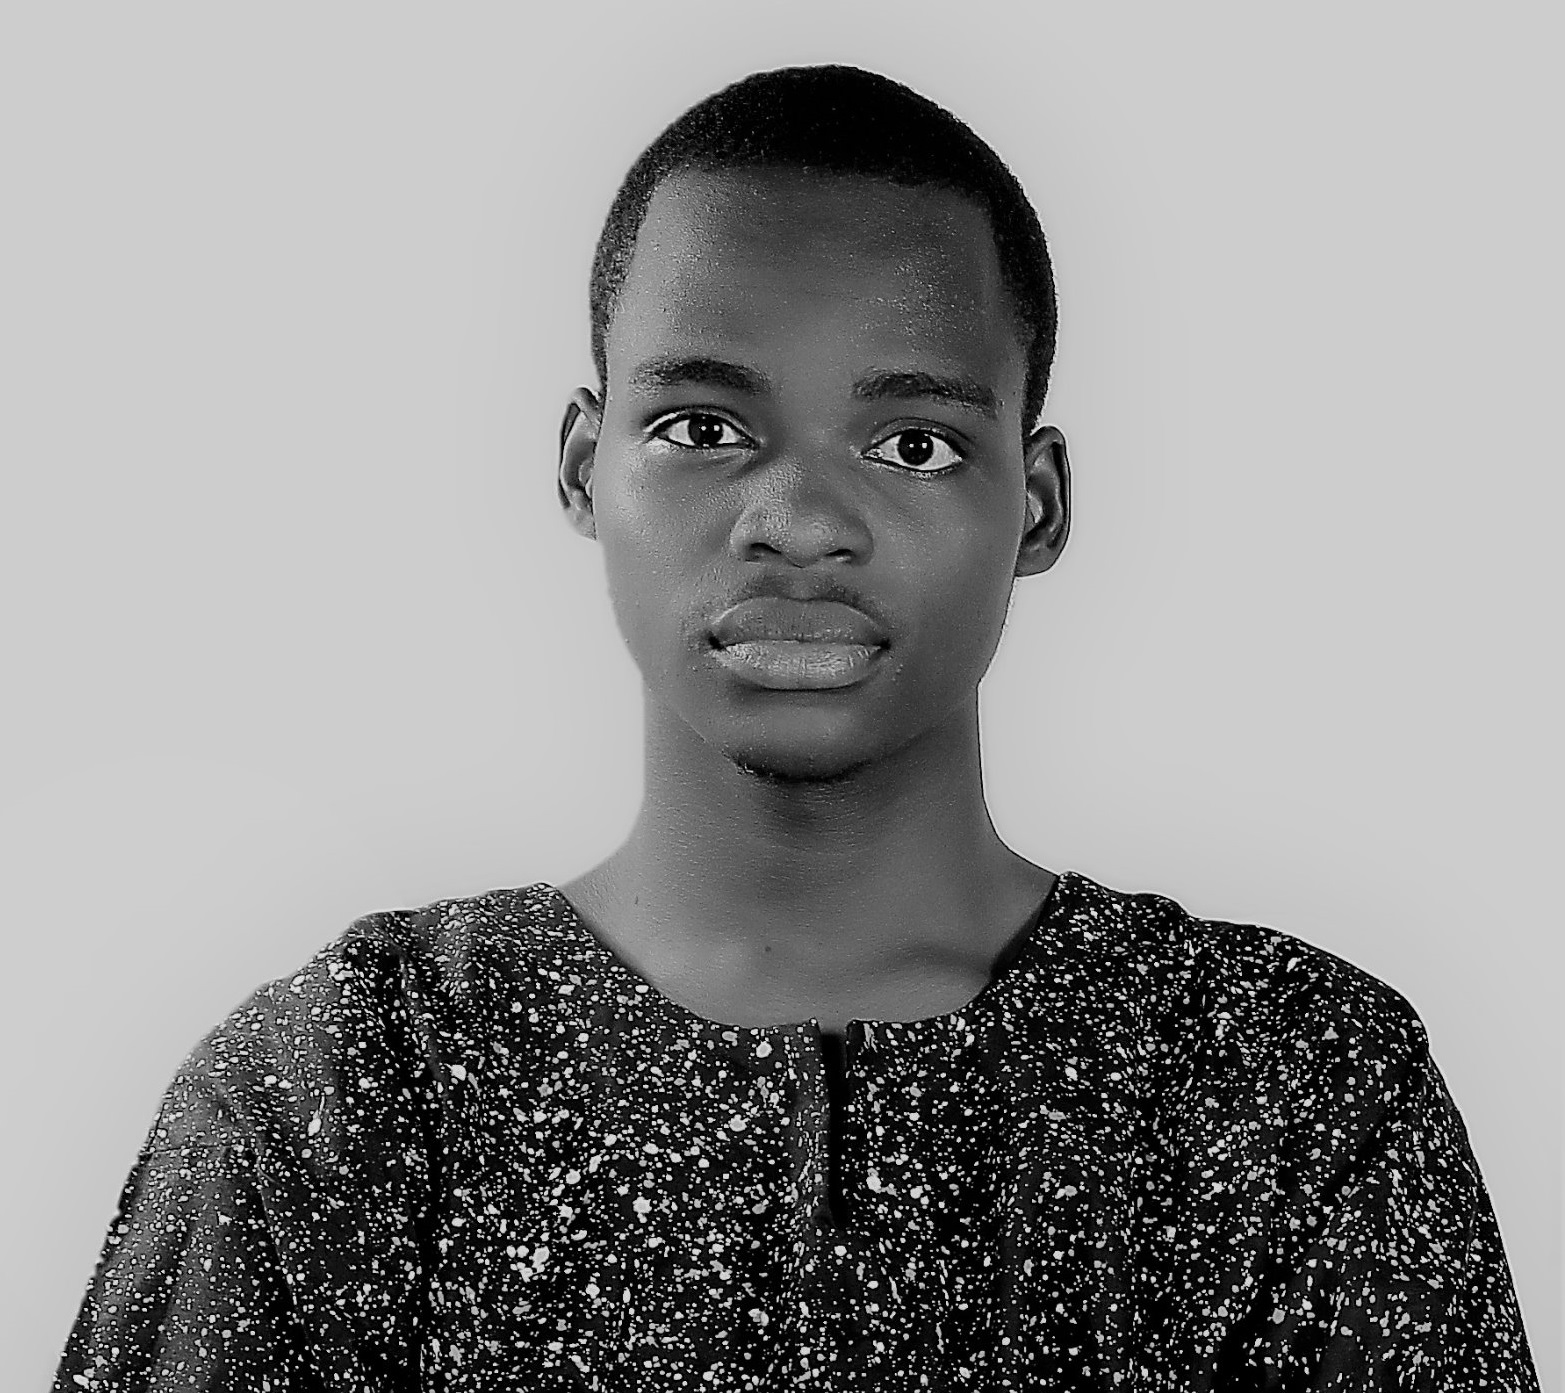
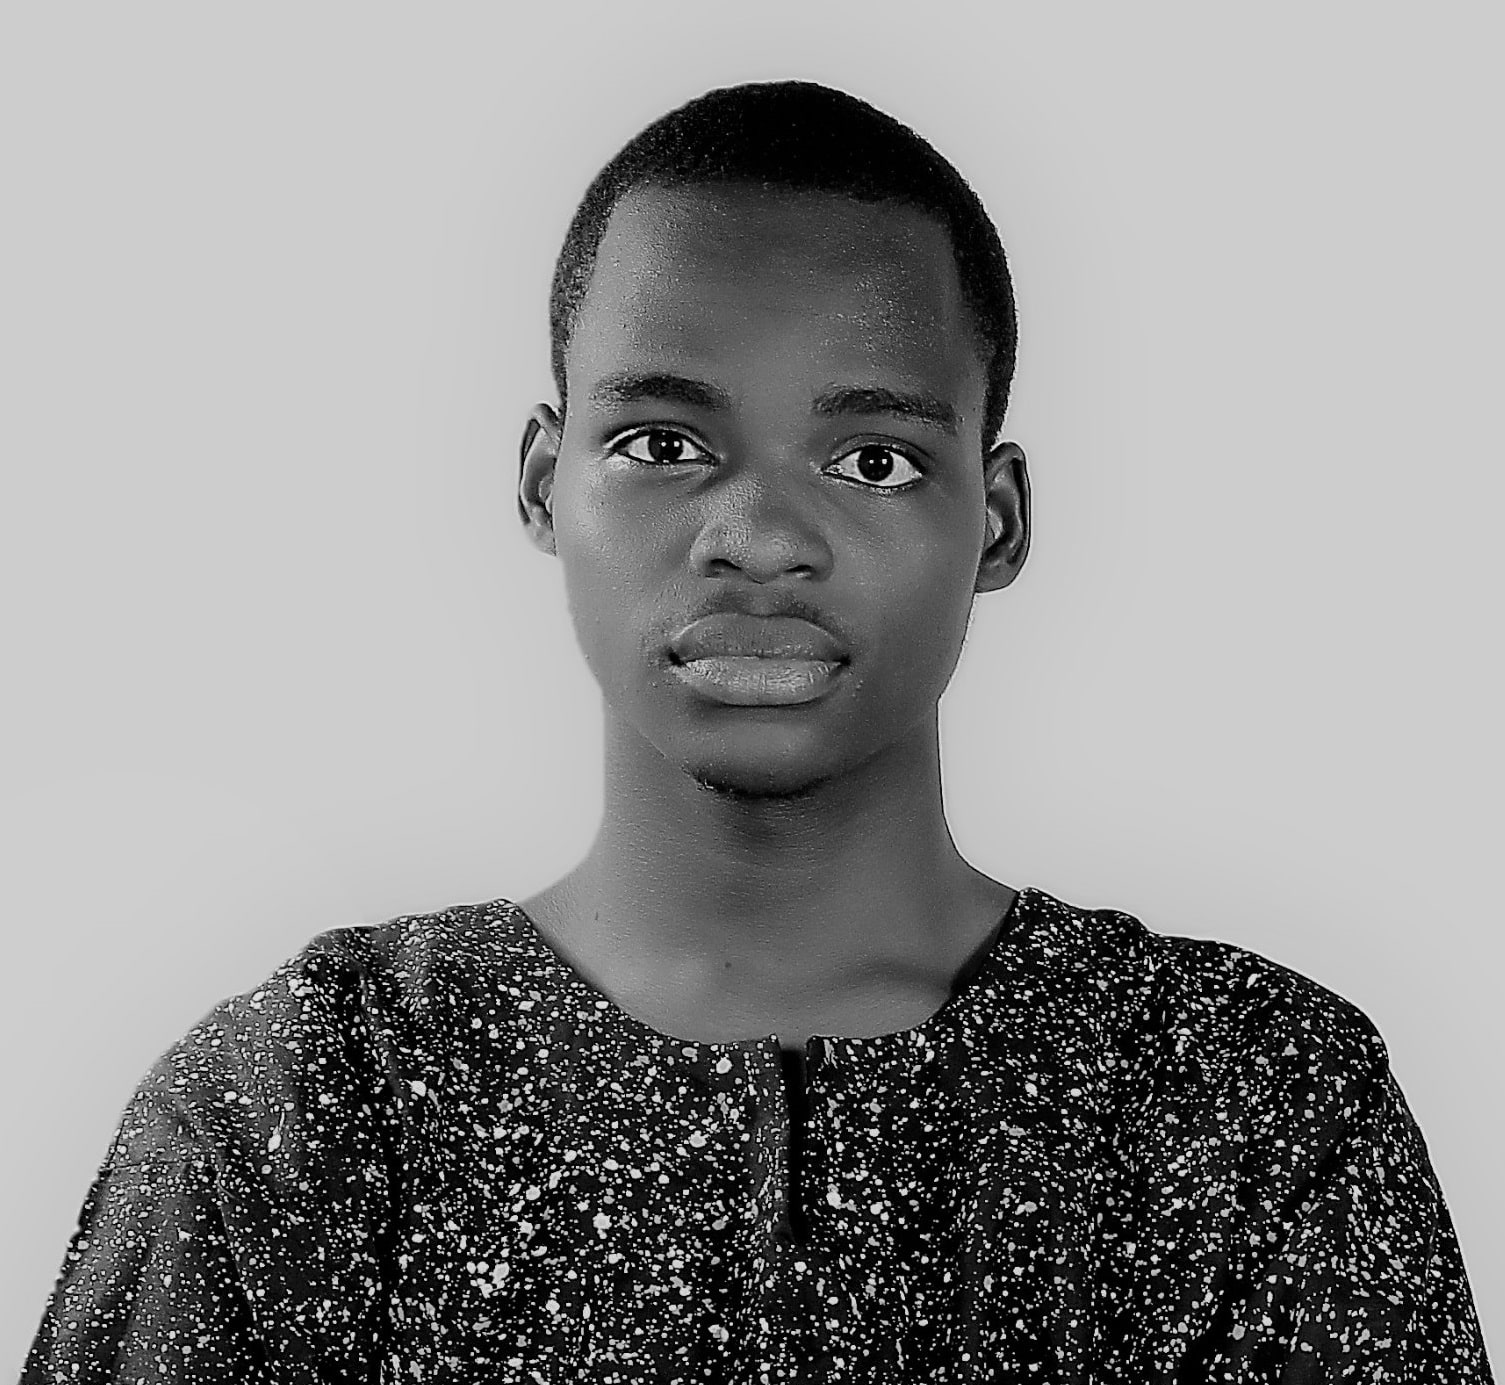
compressed images

Changed region(s): [[0.0, 0.5588, 0.9993, 1.0], [0.3435, 0.031, 0.687, 0.6209], [0.4372, 0.652, 0.4684, 0.683]]

diff --git a/index.html b/index.html
@@ -24,7 +24,7 @@
         <p>Your Mail Was Sent Successfully. We'll Reply In A Jiffy</p>
     </div>
 
-    <div class='modal open'>
+    <div class='modal'>
 
         <form class="form" name="gform" id="gform" enctype="text/plain" action="https://docs.google.com/forms/d/e/1FAIpQLSf9y3Q3-5hivEBZSDDSD3fdEpfLlfbN4VXUYXIv32LY57NWCQ/formResponse?" target="hidden_iframe" onsubmit="submitted=true;">
             

diff --git a/src/css/main.css b/src/css/main.css
@@ -143,7 +143,7 @@ section,
 }
 
 .tell-a-story{
-    background: url('../img/header-img-min.jpg') 100% / cover no-repeat;
+    background: url('../img/header.jpg') 100% / cover no-repeat;
     height: 100vh;
     display: flex;
     color: #fff!important;
